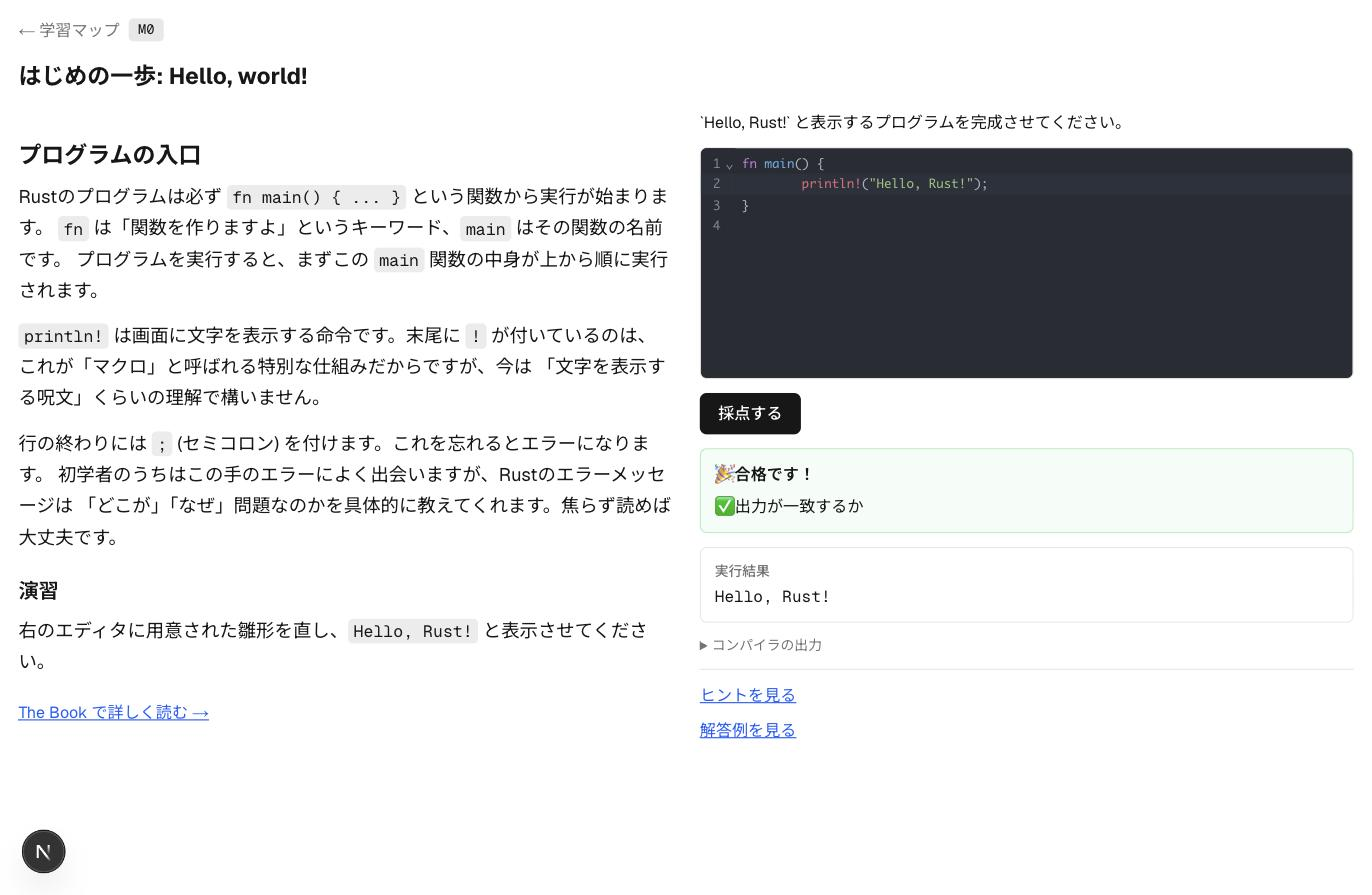
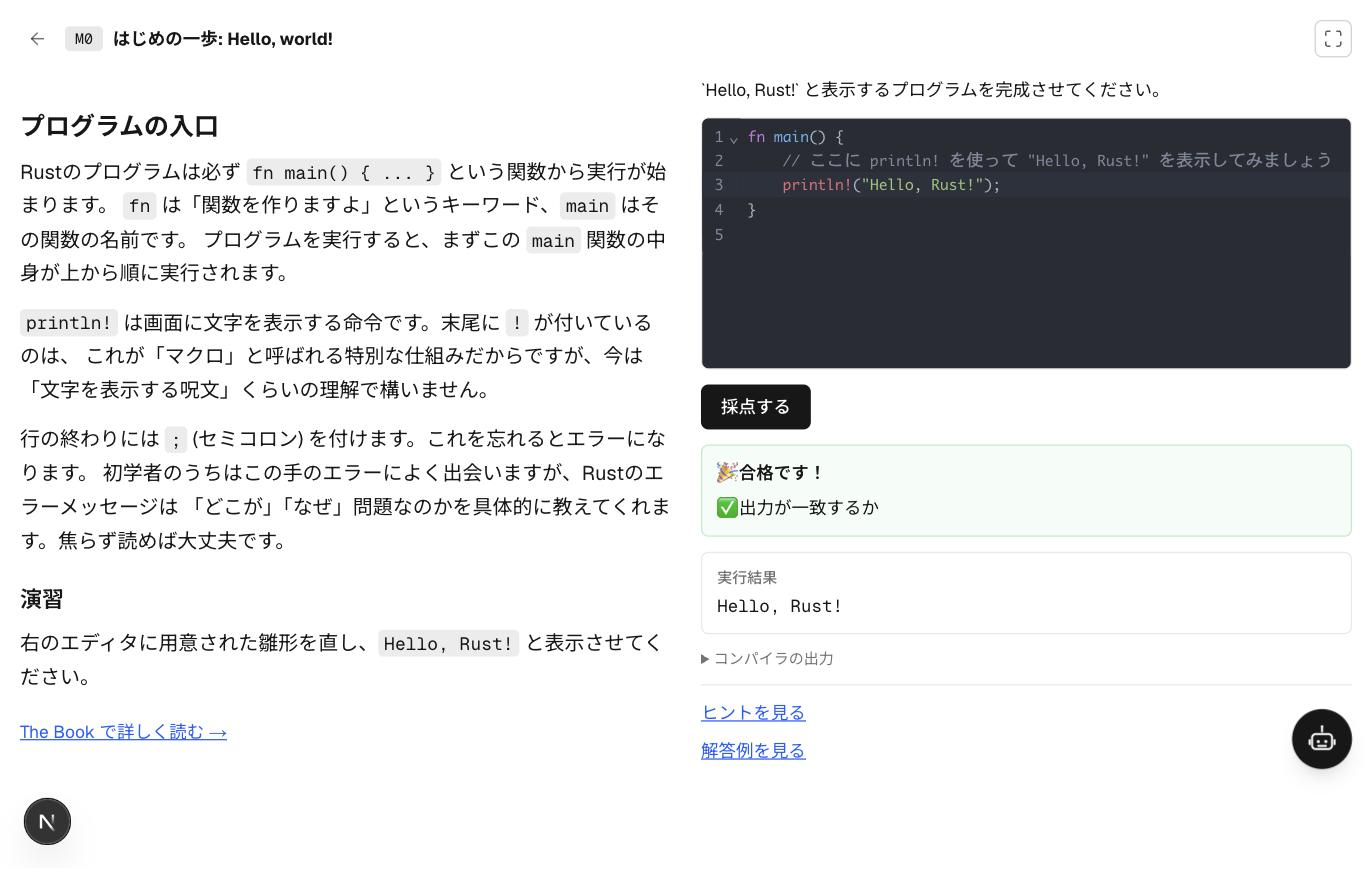
READMEを最新機能に合わせて更新し、スクリーンショットを撮り直す
集中モードとPlaygroundのAIチューターが未記載だったため特徴セクションに追記し、
現在のアイコンベースUIに合わせてスクリーンショットを差し替えた。

Claude-Session: https://claude.ai/code/session_015j4B4ZbUHkvVnRgfBgaye1

diff --git a/README.md b/README.md
@@ -8,7 +8,7 @@
 
 |                                            学習マップ                                            |                                              レッスン画面                                              |                                             エラーの日本語解説                                             |
 | :------------------------------------------------------------------------------------------: | :------------------------------------------------------------------------------------------------: | :--------------------------------------------------------------------------------------------------: |
-| ![学習マップ: M0〜M10のマイルストーンと進捗が並ぶトップページ](docs/screenshots/top.jpg) | ![レッスン画面: 解説・エディタ・採点結果・実行結果が並ぶ3ペイン](docs/screenshots/lesson.jpg) | ![Playground画面でrustcのエラーを日本語で解説するカード](docs/screenshots/playground-error.jpg) |
+| ![学習マップ: M0〜M10のマイルストーンと進捗が並ぶトップページ](docs/screenshots/top.jpg) | ![レッスン画面: 解説・エディタ・採点結果・実行結果が並び、右下にAIチューターを開くボタンがある](docs/screenshots/lesson.jpg) | ![Playground画面でrustcのエラー(E0382)を日本語で解説するカード。AIチューターも同じ画面から開ける](docs/screenshots/playground-error.jpg) |
 
 ## 特徴
 
@@ -18,7 +18,8 @@
 - **rustcエラーの日本語解説** — `E0382`(ムーブ済みの値)のような初学者がつまずきやすいエラーを、日本語で「何が起きたか」「どう直すか」まで解説します
 - **進捗の自動保存** — 完了したレッスンはブラウザの`localStorage`に保存され、次回アクセス時も続きから学習できます
 - **自由に書けるPlayground** — レッスンを離れて自由にRustコードを試せる画面も用意しています
-- **AIチューター(任意)** — ローカルで動くLLM(llama-server等のOpenAI互換API)と接続すると、集中モードの右パネルや通常モードのドロワーから質問できます。完成コードは提示せず、考え方やエラーの読み方をヒントとして返す家庭教師役です
+- **集中モード** — レッスン画面をエディタ中心の2カラム(左: コード、右: ヒント・解答例・AIチューター)に切り替えて、演習に集中して取り組めます
+- **AIチューター(任意)** — ローカルで動くLLM(llama-server等のOpenAI互換API)と接続すると、レッスンの集中モード右パネル・通常モードのドロワー・Playgroundの各画面から質問できます。完成コードは提示せず、考え方やエラーの読み方をヒントとして返す家庭教師役です
 
 ## 技術スタック
 
